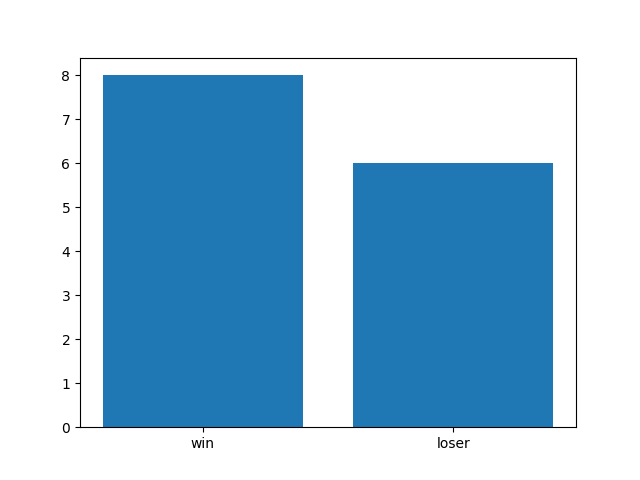
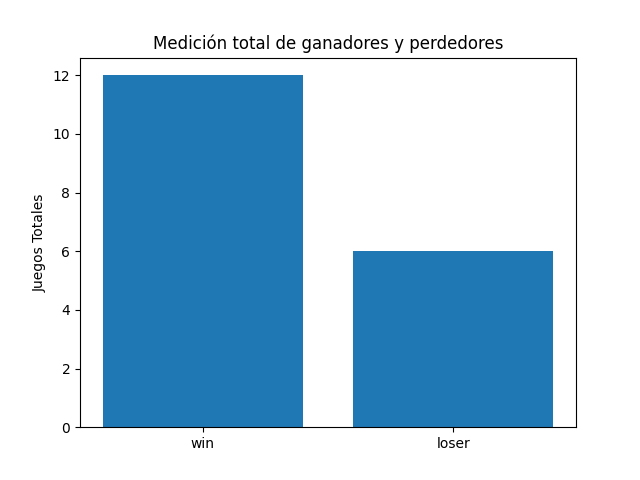
ajuste tarea

diff --git a/01_Primeros_pasos_Python/01_CursoPython/Practicas/JuegosPy/AdivinaPalabras/graficas.py b/01_Primeros_pasos_Python/01_CursoPython/Practicas/JuegosPy/AdivinaPalabras/graficas.py
@@ -5,6 +5,19 @@ def grafica_barras(labels, values, directorio):
     #values = [200, 34, 120]
     fig, ax = plt.subplots() #son dos valores que nos da la librería, fig es como la figura y ax se refire a las coordenadas donde  vamos a empezar a graficar
     ax.bar(labels, values)#aquí le estás indicando que quieres generar una gráfica de barras (bar), y le envías labels y values para que sepa que tiene que crear el gráfico con esos valores
+    ax.set_ylabel('Juegos Totales') # Titulo eje Y 
+    ax.set_title('Medición total de ganadores y perdedores') # Titulo de la grafica
+    #ax.legend(title='Juegos')
     plt.savefig(directorio+'barras.png')# Guarda la grafica 
     plt.show()# Genera la grafica 
     plt.close()# Cierra la grafica
+
+
+def grafica_pastel(labels, values, directorio):
+    #labels = ['A', 'B', 'C']
+    #values = [200, 34, 120]
+    fig, ax = plt.subplots() #son dos valores que nos da la librería, fig es como la figura y ax se refire a las coordenadas donde  vamos a empezar a graficar
+    ax.pie(values, labels=labels, autopct='%1.1f%%', pctdistance=1.25, labeldistance=.6, shadow=True, startangle=90)
+    plt.savefig(directorio+'pie.png')
+    plt.show()
+    plt.close()

diff --git a/01_Primeros_pasos_Python/01_CursoPython/Practicas/JuegosPy/AdivinaPalabras/Tablero.py b/01_Primeros_pasos_Python/01_CursoPython/Practicas/JuegosPy/AdivinaPalabras/Tablero.py
@@ -1,7 +1,7 @@
 import datetime
 import json
 import os 
-from graficas import grafica_barras 
+from graficas import grafica_barras, grafica_pastel 
 
 class Tablero:
     def __init__(self, nombre = 'Ahorcado', nivel = 'facil'):
@@ -200,6 +200,7 @@ class Tablero:
             datos_graficar = self.calculoTotalWinLoser(score)
             #Aqui genero la grafica
             grafica_barras(datos_graficar[0], datos_graficar[1], self.directorio)
+            grafica_pastel(datos_graficar[0], datos_graficar[1], self.directorio)
 
     def imprimeWin(self):
         print("..... (¯`v´¯)♥")

diff --git a/01_Primeros_pasos_Python/01_CursoPython/Practicas/JuegosPy/AdivinaPalabras/main.py b/01_Primeros_pasos_Python/01_CursoPython/Practicas/JuegosPy/AdivinaPalabras/main.py
@@ -8,6 +8,6 @@ def iniciar_juego():
     time.sleep(3) 
     obj_tablero.dibujarPresentacion()
     obj_tablero.logicaJuego()
-
+    
 if __name__ == "__main__":
     iniciar_juego()
